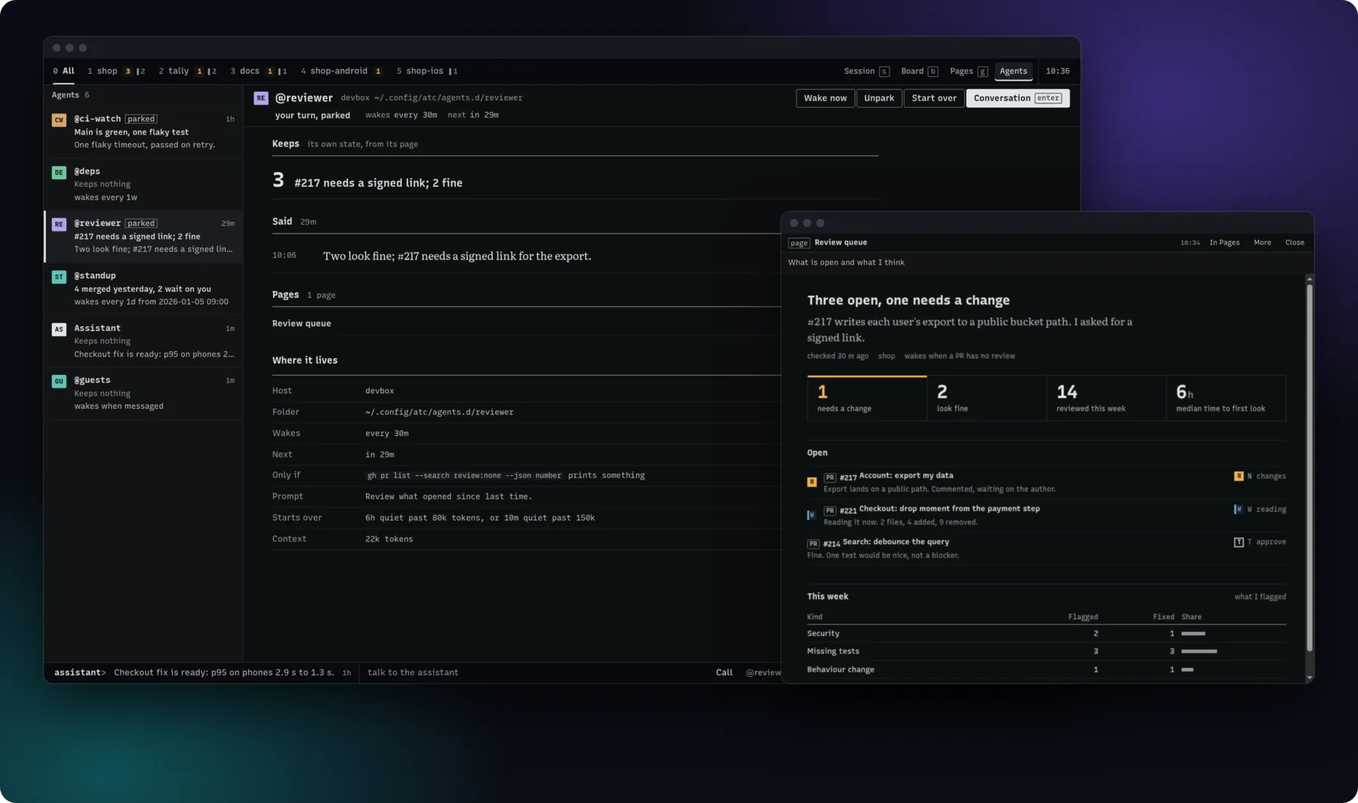
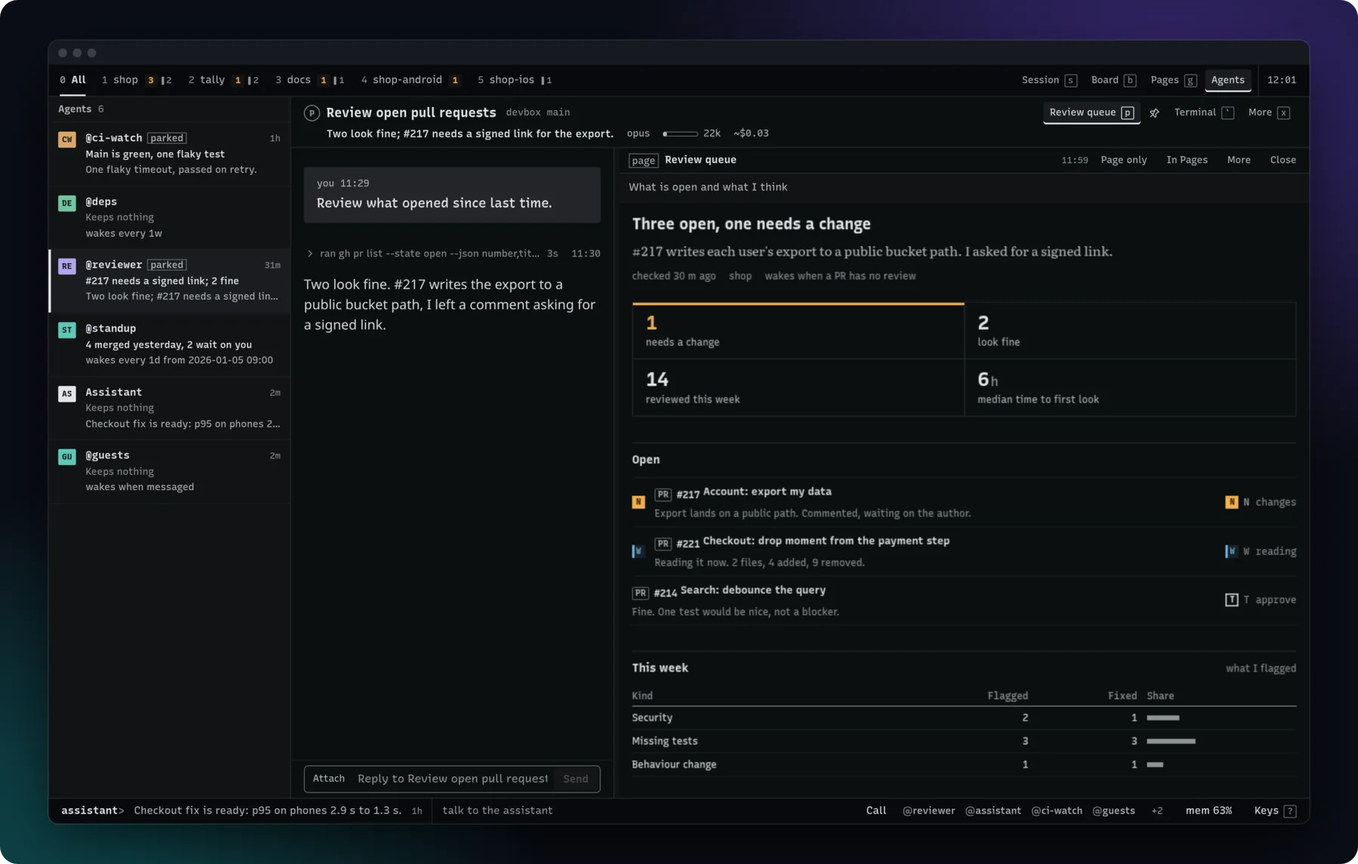
Picking an agent opens its conversation and page beside the list; details move to a sheet (More, or its tag); a stopped session's link finds it in history instead of saying it is gone

diff --git a/web/app.js b/web/app.js
@@ -237,7 +237,8 @@ function App() {
   const [quick, setQuick] = useState(null);
   QUICK = (s, rect) => setQuick({ s, rect });
   const [agentUse, setAgentUse] = useState(null);
-  AGENT_SHEET = (name, view) => (view === "usage" ? setAgentUse(name) : (location.hash = `${AGENTS_ROUTE}/${encodeURIComponent(name)}`));
+  const [agentSheet, setAgentSheet] = useState(null);
+  openAgent = (name, view) => (view === "usage" ? setAgentUse(name) : view === "details" ? setAgentSheet(name) : name === "assistant" ? openAssistant() : (location.hash = `${AGENTS_ROUTE}/${encodeURIComponent(name)}`));
   const [help, setHelp] = useState(false);
   const [toast, setToast] = useState(null);
   const [agentName, setAgentName] = useState(agentRoute);
@@ -247,6 +248,7 @@ function App() {
   const [panes, setPanesRaw] = useState(() => ({ rail: true, index: true, pgindex: true, aleft: true, ...stored("atc.panes", {}) }));
   const rememberPast = useCallback((list) => setPast((p) => Object.fromEntries([...Object.entries(p), ...list.map((s) => [s.sessionId, s])])), []);
   const [hist, moreHist, canMore] = useBayHistory(!!me, rememberPast);
+  const lookingUp = usePastSession(route, !runs || !!past[route] || runs.some((s) => s.id === route || s.sessionId === route), rememberPast);
   const togglePane = (k) => setPanesRaw((p) => { const n = { ...p, [k]: !p[k] }; store("atc.panes", n); return n; });
   const only = useBay();
   const wide = useWide();
@@ -326,7 +328,7 @@ function App() {
   const [calling, setCalling] = useState(location.hash === CALL);
   const [holding, setHolding] = useState(location.hash === HOLD);
   useEffect(() => {
-    const f = (e) => { if (location.hash === HOLD && e.oldURL) HOLD_FROM = new URL(e.oldURL).hash || "#/"; setHolding(location.hash === HOLD); setAssisting(fromCall() || location.hash === ASSIST); setCalling(location.hash === CALL); setScr(screenOf()); setAgentName(agentRoute()); setSharing(shareRoute()); setAlone(aloneRoute()); setPagesAt(readPages()); setSettings(inSettings()); };
+    const f = (e) => { if (location.hash === HOLD && e.oldURL) HOLD_FROM = new URL(e.oldURL).hash || "#/"; setHolding(location.hash === HOLD); setAssisting(fromCall() || location.hash === ASSIST); setCalling(location.hash === CALL); setScr(screenOf()); setAgentName(agentRoute()); setSharing(shareRoute()); setAlone(aloneRoute()); setPagesAt(readPages()); setSettings(inSettings()); setAgentSheet(null); };
     addEventListener("hashchange", f);
     return () => removeEventListener("hashchange", f);
   }, []);
@@ -548,7 +550,7 @@ function App() {
     : scr && !route ? html`<main class="shell scr">${scr === "usage" ? html`<${UsagePage} limits=${limits} live=${all} down=${down} onOpen=${openFromUsage} />`
       : scr === "resources" ? html`<${ResourcesPage} hosts=${(me.hosts || [me.host]).filter((h) => h)} home=${me.host} live=${all} />`
       : scr === "backlog" ? html`<${BacklogPage} live=${all} say=${say} onAdd=${setCreating} only=${only} />`
-      : html`<${AgentsPage} name=${agentName} agents=${agents} live=${all} say=${say} reload=${loadAgents} />`}</main>`
+      : html`<${AgentsPage} name=${agentName} agents=${agents} live=${all} past=${past} remember=${rememberPast} say=${say} reload=${loadAgents} panes=${panes} togglePane=${togglePane} />`}</main>`
     : !route ? html`<div class="shell boardv"><${BoardView} live=${live} hist=${hist} more=${canMore && moreHist} only=${only} sel=${sel} cursor=${cursor} say=${say} index=${panes.index && wide} /></div>` : html`
     <div class="shell open ${!panes.rail ? "norail" : ""}">
       <aside class="side">
@@ -561,7 +563,7 @@ function App() {
         ${sel && !wide && html`<${SessionStrip} live=${live} sel=${sel} />`}
         ${sel
           ? html`<${Session} key=${sel.sessionId} s=${sel} say=${say} live=${all} panes=${panes} togglePane=${togglePane} />`
-          : html`<div class="blank">${!live ? "Opening…" : "This session is gone. Pick another from the list."}</div>`}
+          : html`<div class="blank">${!live || lookingUp ? "Opening…" : "This session is gone. Pick another from the list."}</div>`}
       </main>
     </div>`}
     <${Console} hub=${hub} agents=${agents} runs=${runs} onTalk=${openAssistant} onKeys=${() => setHelp(true)} />
@@ -579,6 +581,7 @@ function App() {
     ${holding && html`<${Hold} live=${live} me=${me} down=${down} limits=${limits} say=${say} />`}
     ${calling ? html`<${CallScreen} hub=${hub} live=${all} />` : html`<${CallDock} hub=${hub} live=${all} assisting=${assistView} />`}
     ${quick && html`<${QuickMenu} quick=${quick} say=${say} onClose=${() => setQuick(null)} />`}
+    ${agentSheet && html`<${AgentDetail} sheet a=${(agents || []).find((a) => a.name === agentSheet) || { name: agentSheet }} live=${all} say=${say} reload=${loadAgents} onClose=${() => setAgentSheet(null)} />`}
     ${agentUse && html`<${AgentUsage} name=${agentUse} onClose=${() => setAgentUse(null)} />`}
     <${Dialogs} />
     ${toast && html`<div class="toast" role="status">${toast.msg}${toast.undo && html` <button class="tundo" onClick=${undo} aria-keyshortcuts="z">Undo <kbd aria-hidden="true">z</kbd></button>`}</div>`}
@@ -788,9 +791,9 @@ const hubLine = (hub) => {
 function ConsoleAgents({ agents, runs }) {
   const last = (a) => Math.max(0, ...(runs || []).filter((x) => x.agent === a.name).map((x) => Date.parse(x.updated || 0) || 0));
   const list = (agents || []).filter((a) => !a.error).sort((a, b) => last(b) - last(a));
-  const link = (a) => html`<a href="#" onClick=${(e) => { e.preventDefault(); AGENT_SHEET(a.name); }}>@<b>${a.name}</b></a>`;
+  const link = (a) => html`<a href="#" onClick=${(e) => { e.preventDefault(); openAgent(a.name); }}>@<b>${a.name}</b></a>`;
   return html`<span class="agents">${list.slice(0, 4).map(link)}${list.length > 4 && html`<${Menu} cls="kb" up aria="Every agent" width=${220} label=${`+${list.length - 4}`}
-    items=${list.slice(4).map((a) => ({ cls: "viewitem", label: `@${a.name}`, run: () => AGENT_SHEET(a.name) }))} />`}</span>`;
+    items=${list.slice(4).map((a) => ({ cls: "viewitem", label: `@${a.name}`, run: () => openAgent(a.name) }))} />`}</span>`;
 }
 
 function Console({ hub, agents, runs, onTalk, onKeys }) {
@@ -835,7 +838,7 @@ const KEYMAP = [
   ["Pages", [["j k", "Next, previous page"], ["[", "The index"], ["0", "This bay or every bay"], ["q w e .. p", "The 1st to 10th page in the index"], ["\\", "The page beside its session"], ["enter", "Note: its session, at the composer"], ["d", "What changed, on an updated page"]]],
   ["Palette", [["↑ ↓", "Move (also ctrl j, ctrl k)"], ["enter", "Run it"], ["tab", "Preview it behind the palette"], ["1..9", "Alone: that bay"]]],
   ["Backlog", [["j k", "Next, previous task"], ["enter", "Start, take or open it"], ["d", "Done"], ["x", "Blocked, or unblock"], ["a", "The add box"]]],
-  ["Agents", [["j k", "Next, previous agent"], ["enter", "Its conversation"]]],
+  ["Agents", [["j k", "Next, previous agent"]]],
   ["Anywhere", [["/", "Search and commands"], ["+", "New session"], [",", "Settings"], ["z", "Undo, while an Undo toast shows"], ["?", "These keys"], ["esc", "Close what is open"]]],
 ];
 
@@ -1861,7 +1864,7 @@ function Pic({ src, alt = "", fallback }) {
 }
 
 let QUICK = () => {};
-let AGENT_SHEET = () => {};
+let openAgent = () => {};
 const CONTAINERS = new Set(["proj", "projects", "src", "code", "dev", "work", "repos", "git", "Developer"]);
 function project(path) {
   const parts = tilde(path || "").replace(/\/\.claude\/worktrees\/[^/]+/, "").split("/");
@@ -1983,7 +1986,7 @@ function scrollWhenThere(sel, tries = 20) {
   else if (tries > 0) setTimeout(() => scrollWhenThere(sel, tries - 1), 100);
 }
 
-function Session({ s, say, live, panes, togglePane }) {
+function Session({ s, say, live, panes, togglePane, back = () => go(null) }) {
   const canAttach = s.attachable;
   const hasTerm = s.kind !== "hub";
   const auto = useRef(AUTO_PANE);
@@ -2109,7 +2112,7 @@ function Session({ s, say, live, panes, togglePane }) {
   return html`
     <header class="hd">
       <div class="l1">
-        <button class="kb back" onClick=${() => go(null)} aria-label="Back to the board">Back</button>
+        <button class="kb back" onClick=${back} aria-label="Back">Back</button>
         <${StateBlock} s=${s} />
         ${renaming ? renameBox : html`<h1 onDblClick=${() => setRenaming(true)} title=${s.title}>${s.title || "Untitled"}</h1>`}
         ${where && html`<span class="where">${where}</span>`}
@@ -2123,7 +2126,7 @@ function Session({ s, say, live, panes, togglePane }) {
               ...(phoneNow && hasTerm ? [{ label: mode === "term" ? "Transcript" : "Terminal", run: () => choose(mode === "term" ? "chat" : "term") }] : []),
               { label: "Call about this", run: () => callAbout(s, say) },
               ...(mode === "chat" || sideBySide ? [{ label: "Find in the transcript", run: () => TX_API?.find() }, { label: "Contents", run: () => TX_API?.contents() }, { label: "Outline, story or everything", run: () => TX_API?.level() }, { label: "Files, commits and deploys", run: () => TX_API?.results() }] : []),
-              ...sessionActions(s, say, { rename: () => setRenaming(true), after: () => setBusy(false) }), { label: "State and outputs", run: openState }, { label: "Usage", run: () => setShowUse(true) }]} /></div>
+              ...sessionActions(s, say, { rename: () => setRenaming(true), after: () => setBusy(false) }), { label: "State and outputs", run: openState }, { label: "Usage", run: () => setShowUse(true) }, ...(s.agent ? [{ label: "Agent details", run: () => openAgent(s.agent, "details") }] : [])]} /></div>
         </span>
       </div>
       <div class="l2 items">
@@ -3636,7 +3639,7 @@ function SessionUsage({ s, use, onClose, agent }) {
             rows=${use.models.map((m) => ({ label: modelName(m.model), sub: `${tokens(m.total)} tokens · ${m.messages} replies`, cost: m.cost }))} />`}
         <h4>Activity</h4>
         <dl class="facts">${rows.map(([k, v]) => html`<dt>${k}</dt><dd>${v}</dd>`)}</dl>
-        ${!agent && s.agent && AGENT_INFO[s.agent] && html`<button class="btn" onClick=${() => { onClose(); AGENT_SHEET(s.agent, "usage"); }}>All of ${agentLabel(AGENT_INFO[s.agent])}'s conversations</button>`}
+        ${!agent && s.agent && AGENT_INFO[s.agent] && html`<button class="btn" onClick=${() => { onClose(); openAgent(s.agent, "usage"); }}>All of ${agentLabel(AGENT_INFO[s.agent])}'s conversations</button>`}
         <p class="note">The share of a limit counts this ${what}'s spend since that window opened. ${RATE} ${ESTIMATE(use.pricesAsOf)}${use.unpriced?.length ? ` No price known for ${use.unpriced.join(", ")}, so it counts as $0.` : ""} Working time adds up the gaps between messages in each turn, at most 10 minutes per gap.</p>`}
     <//>`;
 }
@@ -3852,7 +3855,7 @@ const pageRef = (p) => (p.at ? `${p.name}#${p.at}` : p.name);
 let AT_SEQ = 0;
 const atOf = (ref) => { const [name, id] = splitRef(ref); return id ? { name, id, seq: ++AT_SEQ } : null; };
 const atcRoute = (href) => { const u = new URL(href, location.href); return u.origin === location.origin && u.pathname === "/" && u.hash ? u.hash : null; };
-const routePage = () => { const m = location.hash.match(/^#\/s\/[^/]+\/p\/(.+)$/); return m ? decodeURIComponent(m[1]) : null; };
+const routePage = () => { const m = location.hash.match(/^#\/(?:s|agents)\/[^/]+\/p\/(.+)$/); return m ? decodeURIComponent(m[1]) : null; };
 let LAST_KEY = 0;
 addEventListener("keydown", () => { LAST_KEY = Date.now(); }, true);
 
@@ -4633,11 +4636,11 @@ const soon = (at) => {
 function AgentTag({ s }) {
   const a = AGENT_INFO[s.agent] || { name: s.agent };
   return html`<span class="agenttag" role="button" title=${`${agentLabel(a)}: details`}
-    onClick=${(e) => { e.stopPropagation(); AGENT_SHEET(a.name); }}><${AppTile} a=${a} size=${14} />${agentLabel(a)}</span>`;
+    onClick=${(e) => { e.stopPropagation(); openAgent(a.name, "details"); }}><${AppTile} a=${a} size=${14} />${agentLabel(a)}</span>`;
 }
 
 const AGENTS_ROUTE = "#/agents";
-const agentRoute = () => { const m = location.hash.match(/^#\/agents(?:\/([^/?]+))?$/); return m ? decodeURIComponent(m[1] || "") : null; };
+const agentRoute = () => { const m = location.hash.match(/^#\/agents(?:\/([^/?]+))?(?:\/p\/.+)?$/); return m ? decodeURIComponent(m[1] || "") : null; };
 const monogram = (n) => { const w = n.split(/[-_ ]+/).filter(Boolean); return (w.length > 1 ? w[0][0] + w[1][0] : n.slice(0, 2)).toUpperCase(); };
 
 function AgentMark({ a, lg }) {
@@ -4649,21 +4652,39 @@ const agentBadge = (a) => { const b = a.badge == null ? null : typeof a.badge ==
 const agentKeeps = (a) => a.headline || (agentBadge(a) ? `${agentBadge(a)} on its page` : "");
 const agentWakes = (a) => a.every ? `every ${a.every}${a.from ? ` from ${a.from.replace("T", " ")}` : ""}` : "when messaged";
 
-function AgentsPage({ name, agents, live, say, reload }) {
+function usePastSession(id, known, remember) {
+  const [asked, setAsked] = useState({});
+  useEffect(() => {
+    if (!id || known || asked[id]) return;
+    api(`/api/history?q=${encodeURIComponent(id)}&limit=1`).then((l) => remember(l || []), () => {}).finally(() => setAsked((m) => ({ ...m, [id]: true })));
+  }, [id, known]);
+  return !!id && !known && !asked[id];
+}
+
+function AgentsPage({ name, agents, live, past, remember, say, reload, panes, togglePane }) {
   useNow(30000);
   const wide = useWide();
   const list = (agents || []).filter((a) => a.name);
-  const cur = list.find((a) => a.name === name) || (wide && !name ? list.find((a) => a.name === stored("atc.agentsel", "")) || list[0] : null);
-  useEffect(() => { if (cur) store("atc.agentsel", cur.name); }, [cur?.name]);
+  const openable = list.filter((a) => a.name !== "assistant");
+  const cur = openable.find((a) => a.name === name) || (wide && !name ? openable.find((a) => a.name === stored("atc.agentsel", "")) || openable[0] : null);
+  useEffect(() => { if (name === "assistant") location.replace(ASSIST); }, [name]);
+  useEffect(() => {
+    if (!cur) return;
+    store("atc.agentsel", cur.name);
+    if (!name) history.replaceState(null, "", `${AGENTS_ROUTE}/${encodeURIComponent(cur.name)}`);
+  }, [cur?.name, name]);
+  const run = cur && (agentRun(live, cur.name) || past[cur.sessionId]);
+  const lookingUp = usePastSession(cur?.sessionId, !!run, remember);
   const keys = useRef();
-  keys.current = { list, cur };
+  keys.current = { openable, cur };
   useEffect(() => {
     const k = (e) => {
-      if (e.defaultPrevented || e.metaKey || e.ctrlKey || e.altKey || /^(INPUT|TEXTAREA|SELECT)$/.test(e.target.tagName) || document.querySelector(".nsveil, .pal, .veil, .keys-ov")) return;
-      const { list, cur } = keys.current, i = list.indexOf(cur);
+      const t = e.target;
+      if (e.defaultPrevented || e.metaKey || e.ctrlKey || e.altKey || t.closest?.(".xterm") || t.isContentEditable || /^(INPUT|TEXTAREA|SELECT)$/.test(t.tagName) || document.querySelector(".nsveil, .pal, .veil, .keys-ov")) return;
+      const { openable: l, cur } = keys.current, i = l.indexOf(cur);
       const to = (a) => a && location.replace(`${AGENTS_ROUTE}/${encodeURIComponent(a.name)}`);
-      const f = { j: () => to(list[i + 1]), k: () => to(list[i - 1]), ArrowDown: () => to(list[i + 1]), ArrowUp: () => to(list[i - 1]),
-        Enter: () => document.querySelector(".agd .conv")?.click() }[e.key];
+      const start = document.querySelector(".agd .conv");
+      const f = { j: () => to(l[i + 1]), k: () => to(l[i - 1]), Enter: start && (() => start.click()) }[e.key];
       if (f) { e.preventDefault(); f(); }
     };
     addEventListener("keydown", k);
@@ -4678,18 +4699,20 @@ function AgentsPage({ name, agents, live, say, reload }) {
           ${agents && !list.length && html`<p class="none">No standing agents. An agent is a folder with a brief under ~/.config/atc/agents.</p>`}
           ${list.map((a) => { const x = agentRun(live, a.name), keeps = agentKeeps(a); return html`
             <a class="ar ${a === cur ? "sel" : ""}" role="option" aria-selected=${a === cur} href=${`${AGENTS_ROUTE}/${encodeURIComponent(a.name)}`}
-              onClick=${(e) => { e.preventDefault(); const to = `${AGENTS_ROUTE}/${encodeURIComponent(a.name)}`; wide ? location.replace(to) : (location.hash = to); }}>
+              onClick=${(e) => { e.preventDefault(); if (a.name === "assistant") return openAssistant(); const to = `${AGENTS_ROUTE}/${encodeURIComponent(a.name)}`; wide ? location.replace(to) : (location.hash = to); }}>
               <${AgentMark} a=${a} /><b>${a.name === "assistant" ? "Assistant" : `@${a.name}`}${x?.parked && html`<span class="pz">parked</span>`}</b>
               <span class="ago">${a.last ? ago({ updated: a.last }) : ""}</span>
               <span class="k ${keeps ? "" : "none"}">${a.error ? "Can't start: see why" : keeps || "Keeps nothing"}</span>
               <span class="l">${oneLine(x?.summary?.status || x?.lastReply) || `wakes ${agentWakes(a)}`}</span></a>`; })}
         </div>
       </aside>
-      ${cur ? html`<${AgentDetail} key=${cur.name} a=${cur} live=${live} say=${say} reload=${reload} />` : html`<section class="agd"></section>`}
+      ${run ? html`<section class="agv"><${Session} key=${run.sessionId} s=${run} say=${say} live=${live} panes=${panes} togglePane=${togglePane} back=${() => (location.hash = AGENTS_ROUTE)} /></section>`
+        : cur && !lookingUp ? html`<${AgentDetail} key=${cur.name} a=${cur} live=${live} say=${say} reload=${reload} />`
+        : html`<section class="agd">${lookingUp && html`<div class="blank">Opening…</div>`}</section>`}
     </section>`;
 }
 
-function AgentDetail({ a, live, say, reload }) {
+function AgentDetail({ a, live, say, reload, sheet, onClose }) {
   const [busy, setBusy] = useState(false);
   const [use, setUse] = useState(false);
   const x = agentRun(live, a.name);
@@ -4699,7 +4722,7 @@ function AgentDetail({ a, live, say, reload }) {
     try { const r = await fn(); done && done(r); reload(); } catch (e) { say(e.message); }
     setBusy(false);
   };
-  const conv = x ? () => go(keyOf(x)) : a.sessionId ? () => go(a.sessionId) : act(() => agentApi(a.name, "message"), (r) => go(r.id));
+  const conv = x || a.sessionId ? () => { onClose?.(); go(x ? keyOf(x) : a.sessionId); } : act(() => agentApi(a.name, "message"), (r) => { onClose?.(); go(r.id); });
   const keeps = agentKeeps(a);
   const said = oneLine(x?.summary?.status || x?.lastReply);
   const rule = a.rule && `${spanOf(a.rule.Quiet)} quiet past ${ktok(a.rule.Small)} tokens, or ${spanOf(a.rule.CapQuiet)} quiet past ${ktok(a.rule.Cap)}`;
@@ -4720,13 +4743,7 @@ function AgentDetail({ a, live, say, reload }) {
     a.lastReset && ["Last started over", agoLong(a.lastReset)],
     x?.context && ["Context", `${ktok(x.context)} tokens`],
   ].filter(Boolean);
-  return html`
-    <section class="agd">
-      <header class="hd">
-        <div class="l1"><a class="back kb" href=${AGENTS_ROUTE}>Agents</a><${AgentMark} a=${a} /><h1>${title}</h1><span class="where">${[a.host, tilde(a.folder || a.dir || "")].filter(Boolean).join(" ")}</span>
-          <span class="r">${right}</span></div>
-        <div class="l2"><span class="stat">${status}</span><span class="rd"><span class="l">wakes</span>${agentWakes(a)}</span>${a.next && html`<span class="rd"><span class="l">next</span>${soon(a.next)}</span>`}</div>
-      </header>
+  const body = html`
       <div class="scroll"><div class="agbody">
         <div class="acts-ph">${right}</div>
         <section class="sec"><div class="sh"><h2>Keeps</h2><span class="n">${keeps ? "its own state, from its page" : ""}</span></div>
@@ -4742,7 +4759,16 @@ function AgentDetail({ a, live, say, reload }) {
           <dl class="kv">${facts.map(([k, v]) => html`<dt>${k}</dt><dd>${v}</dd>`)}</dl>
         </section>
       </div></div>
-      ${use && html`<${AgentUsage} name=${a.name} onClose=${() => setUse(false)} />`}
+      ${use && html`<${AgentUsage} name=${a.name} onClose=${() => setUse(false)} />`}`;
+  if (sheet) return html`<${Sheet} cls="agsheet" title=${title} sub=${status} onClose=${onClose}><div class="scrpane">${body}</div><//>`;
+  return html`
+    <section class="agd">
+      <header class="hd">
+        <div class="l1"><a class="back kb" href=${AGENTS_ROUTE}>Agents</a><${AgentMark} a=${a} /><h1>${title}</h1><span class="where">${[a.host, tilde(a.folder || a.dir || "")].filter(Boolean).join(" ")}</span>
+          <span class="r">${right}</span></div>
+        <div class="l2"><span class="stat">${status}</span><span class="rd"><span class="l">wakes</span>${agentWakes(a)}</span>${a.next && html`<span class="rd"><span class="l">next</span>${soon(a.next)}</span>`}</div>
+      </header>
+      ${body}
     </section>`;
 }
 
@@ -6715,7 +6741,7 @@ function Palette({ live, sel, say, home, hosts, actions, onClose }) {
     add("Folders", tilde(d.path), { mono: true, sub: `new session on ${d.host}`, run: run(null, () => actions.create({ dir: d.path, host: d.host })) });
   }
   for (const a of Object.values(AGENT_INFO)) add("Agents", a.name === "assistant" ? "the assistant" : `@${a.name}`, { key: `g:${a.name}`, agent: a, boost: 2,
-    sub: a.headline || a.error || (a.every ? `wakes every ${a.every}` : "wakes when messaged"), run: run(`g:${a.name}`, () => AGENT_SHEET(a.name)) });
+    sub: a.headline || a.error || (a.every ? `wakes every ${a.every}` : "wakes when messaged"), run: run(`g:${a.name}`, () => openAgent(a.name)) });
   bays.forEach((b, i) => add("Bays", b.name, { bayN: i + 1, b, hint: i < 9 ? `alt ${i + 1}` : "", sub: bayWords(b, i).split(": ")[1] || "nothing open", run: run(null, () => goBay(b.name, live)) }));
 
   const ql = q.trim().toLowerCase();

diff --git a/web/screens.css b/web/screens.css
@@ -322,6 +322,7 @@ button.upick:hover, .upick[aria-pressed="true"] { background: var(--strip-hi); }
   --am-c: var(--app-slate); background: light-dark(oklch(from var(--am-c) 48% 0.13 h), oklch(from var(--am-c) 76% 0.1 h)); color: light-dark(oklch(99% 0 0), oklch(18% 0.01 250)); }
 .am[data-ag="assistant"] { background: var(--ink); color: var(--strip); }
 .am.lg { width: 34px; height: 30px; font-size: 13px; }
+.agv { min-width: 0; min-height: 0; display: flex; flex-direction: column; }
 .agd { min-width: 0; min-height: 0; display: flex; flex-direction: column; background: var(--strip); }
 .agd .hd .l1 .am { margin-right: 2px; }
 .agd .hd .l2 { padding-left: 32px; }
@@ -347,6 +348,9 @@ button.upick:hover, .upick[aria-pressed="true"] { background: var(--strip-hi); }
 .agbody .kv dt { color: var(--faint); }
 .agbody .kv dd { padding-top: 7px; font-family: var(--mono); font-size: var(--fs-small); color: var(--dim); overflow-wrap: anywhere; }
 .agbody .acts-ph { display: none; }
+.agsheet .agbody { padding: 0; }
+.agsheet kbd { display: none; }
+.agsheet .agbody .acts-ph { display: flex; flex-wrap: wrap; gap: var(--s2); padding-bottom: var(--s4); }
 
 @media (max-width: 1199px) {
   .lim { grid-template-columns: 170px minmax(0, 1fr) 64px; }

diff --git a/test/ui/build/screens.js b/test/ui/build/screens.js
@@ -138,7 +138,8 @@ async function desktop(b) {
     await wait(p, 2500);
     ok(await p.isVisible('.agentsv'), 'agents: inside the shell');
     ok(await p.locator('.ar').count() > 0, 'agents: listed');
-    ok(await p.isVisible('.agd .hd h1'), 'agents: the chosen agent beside the list');
+    ok(await p.isVisible('.agv .hd h1, .agd .hd h1'), 'agents: the chosen agent beside the list');
+    ok(await p.locator('.agv .hd h1').count() === 1, 'agents: its conversation, not its details');
     await p.keyboard.press('j');
     await wait(p, 300);
     ok(/#\/agents\//.test(await p.evaluate(() => location.hash)), 'agents: j moves to the next agent');

diff --git a/test/demo/shots.js b/test/demo/shots.js
@@ -93,10 +93,8 @@ async (page, { base = "http://127.0.0.1:7399", out = "/tmp/atc-shots", modes = [
     },
     async agents(mode) {
       const p = await open(mode);
-      await to(p, "#/agents/reviewer", 2200);
-      const q = await open(mode, { w: 900, h: 760 });
-      await to(q, "#/p/@reviewer/queue", 2600);
-      return [[p, "agents"], [q, "agent-page"]];
+      await to(p, "#/agents/reviewer", 2600);
+      return [[p, "agents"]];
     },
     async usage(mode) {
       const p = await open(mode, { h: 1040 });

diff --git a/test/demo/compose.js b/test/demo/compose.js
@@ -39,7 +39,7 @@ async (page, { raw = "http://127.0.0.1:7440/raw", out = "/tmp/atc-final", modes 
     board: solo("board", 1560, 1040),
     transcript: solo("transcript", 1560, 1040),
     pages: solo("pages"),
-    agents: { w: 1860, h: 1100, body: (r) => win(`${r}/agents.png`, 60, 50, 1420) + win(`${r}/agent-page.png`, 1070, 290, 730) },
+    agents: solo("agents"),
     usage: solo("usage", 1560, 1040),
     resources: solo("resources", 1560, 1040),
     browser: solo("browser", 1560, 900),

diff --git a/internal/sessions/sessions.go b/internal/sessions/sessions.go
@@ -220,7 +220,7 @@ func (m *Manager) History(q, dir string, limit int) []Session {
 		if dir != "" && s.StartCwd != dir && s.Cwd != dir {
 			continue
 		}
-		if q != "" && !strings.Contains(strings.ToLower(s.Title+" "+s.LastPrompt+" "+s.Cwd), q) {
+		if q != "" && !strings.Contains(strings.ToLower(s.Title+" "+s.LastPrompt+" "+s.Cwd+" "+s.SessionID), q) {
 			continue
 		}
 		out = append(out, s)

diff --git a/docs/presets-and-agents.md b/docs/presets-and-agents.md
@@ -117,8 +117,9 @@ An agent's conversation is a session like any other, under the agent's title and
 tab (the robot icon next to All in the project tabs) lists them the way a project tab lists its
 sessions, parked ones included, with the same dots; agents with no conversation yet are listed below
 by name. An agent with a `dir` also shows in that project's tab; the rest stay out of the project
-tabs. An agent's tag, in place of the project tag, and its name on the Agents tab open its details:
-what it is doing, when it wakes and when next, its check and prompt, when it starts over and last
+tabs. Picking an agent on the Agents screen opens its conversation beside the list, with its page if it
+has one, the stopped conversation if none is running. An agent's tag, in place of the project tag,
+and **Agent details** in the session's menu open its details: what it is doing, when it wakes and when next, its check and prompt, when it starts over and last
 did, its pages and folder, with Open (or Start), Wake, Park and Start over. The assistant (the hub's
 conversation, see [The assistant](assistant.md)) is listed there too, with its own reset rule and no
 dot while it is idle, since it never parks; `POST /api/agents/assistant/message` reaches it as another

diff --git a/README.md b/README.md
@@ -80,7 +80,7 @@ What it knows stays on a page you can open any time.
 
 <picture>
   <source media="(prefers-color-scheme: dark)" srcset="docs/img/agents-dark.webp">
-  <img src="docs/img/agents-light.webp" alt="The Agents screen: a list of standing agents with what each keeps, and the reviewer's details: when it wakes, the check that decides, when it starts over. In front, the page it keeps: three open pull requests, one needing a change.">
+  <img src="docs/img/agents-light.webp" alt="The Agents screen: a list of standing agents with what each keeps, and the reviewer open beside it: its conversation next to the page it keeps, three open pull requests, one needing a change.">
 </picture>
 
 [Presets and agents](docs/presets-and-agents.md)
